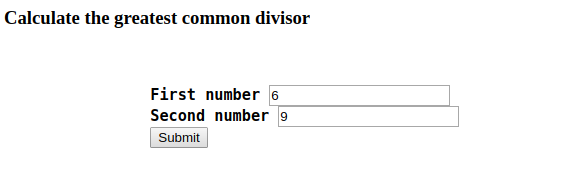
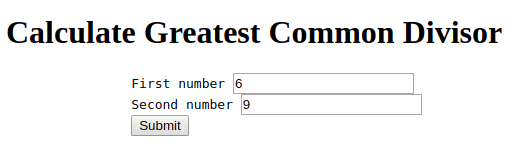
Fixed errors of new functionality: added GUI to calculate GCD (Greatest Common Divisor)

Changed region(s): [[0.0, 0.0613, 0.9808, 0.2761], [0.2452, 0.4294, 0.8276, 0.8589]]

diff --git a/src/main/kotlin/es/unizar/webeng/hello/HelloController.kt b/src/main/kotlin/es/unizar/webeng/hello/HelloController.kt
@@ -13,6 +13,8 @@ import org.springframework.data.redis.core.StringRedisTemplate
 import org.springframework.http.ResponseEntity
 import org.springframework.http.HttpStatus
 import org.springframework.util.MultiValueMap;
+import org.springframework.ui.Model;
+
 
 
 @Controller
@@ -82,23 +84,7 @@ class HelloController {
         return "welcome"
     }
 
-    /**
-     *
-     * This annotation is used to map the personalWelcome function to a GET Request on path: "/{name}"
-     * @PathVariable annotation is used to extract a variable from the url.
-     * A name is considered valid *only* if it only contains letters (upper and lower) and spaces.
-     * @return a String saying "Hello {name}" if name is valid and an error message otherwise
-     */
-    @GetMapping("/{name}")
-    fun personalWelcome(@ModelAttribute msg: Message, @PathVariable name: String): String {
-        if (name.matches(Regex("[A-Za-z ]+"))) {
-            msg.message = "Hola $name"
-            return "welcome"
-        } else {
-            msg.message = "Invalid request. No one can be named $name"
-            throw InvalidWelcomeMessageException(msg)
-        }
-    }
+    
 
     /**
      * 
@@ -118,6 +104,8 @@ class HelloController {
         }
         return "welcome"
     }
+
+    
 
     /**
      * Function example to check the post functionality
@@ -139,6 +127,36 @@ class HelloController {
         }
         // Result is stored in a
         return a
+    }
+
+    /**
+     * Function example to use 'gcd'  with a web GUI
+     */
+    @GetMapping("/gcdForm")
+    fun gcdForm(@ModelAttribute form: GcdResult): String {
+        return "form"
+    }
+
+    /**
+     * Calculate the greatest common divisor with the form values and show the result
+     * to the user in a new webpage
+     * 
+     * @param form It must have two keys: "a":value1, "b":value2
+     * @return a String in a webpage with the 'gcd' of 'a' & 'b'
+     */
+    @PostMapping("/gcdForm")
+    fun calculateGcd(@ModelAttribute form: GcdResult, model: Model) : String{
+
+        val firstNum = form.firstNum
+        val secondNum = form.secondNum
+        //Create a new Gcd object to use 'gcd' function
+        val result = gcd(Gcd(form.firstNum!!,form.secondNum!!))
+        
+        model.addAttribute("firstNum", firstNum)
+        model.addAttribute("secondNum", secondNum)
+        model.addAttribute("result", result)
+
+        return "result"
     }
 
     /**
@@ -249,5 +267,21 @@ class HelloController {
         return "gambling"
     }
 
-
+    /**
+     *
+     * This annotation is used to map the personalWelcome function to a GET Request on path: "/{name}"
+     * @PathVariable annotation is used to extract a variable from the url.
+     * A name is considered valid *only* if it only contains letters (upper and lower) and spaces.
+     * @return a String saying "Hello {name}" if name is valid and an error message otherwise
+     */
+    @GetMapping("/{name}")
+    fun personalWelcome(@ModelAttribute msg: Message, @PathVariable name: String): String {
+        if (name.matches(Regex("[A-Za-z ]+"))) {
+            msg.message = "Hola $name"
+            return "welcome"
+        } else {
+            msg.message = "Invalid request. No one can be named $name"
+            throw InvalidWelcomeMessageException(msg)
+        }
+    }
 }

diff --git a/src/main/webapp/WEB-INF/views/form.html b/src/main/webapp/WEB-INF/views/form.html
@@ -1,0 +1,13 @@
+<!DOCTYPE html>
+<html lang="en" xmlns:th="http://www.thymeleaf.org">
+    <body class="container">
+        <form action="gcdForm" method="post">
+            <h1>Calculate Greatest Common Divisor</h1>
+            <pre>
+                First number <input type="number" name="firstNum" />
+                Second number <input type="number" name="secondNum" />
+                <input type="submit" value="Submit" />
+            </pre>
+        </form>
+    </body>
+</html>

diff --git a/src/main/webapp/WEB-INF/views/result.html b/src/main/webapp/WEB-INF/views/result.html
@@ -1,0 +1,15 @@
+<!DOCTYPE html>
+<html lang="en" xmlns:th="http://www.thymeleaf.org">
+    <title>GCD result</title>
+    <body>
+        <h3>Greatest Common Divisor of 
+                <span th:text="${firstNum}"></span>
+            and 
+                <span th:text="${secondNum}"></span>
+            = 
+            <strong>
+                <span th:text="${result}"></span>
+            </strong> 
+        </h3>
+    </body>
+</html>

diff --git a/src/main/kotlin/es/unizar/webeng/hello/GcdResult.kt b/src/main/kotlin/es/unizar/webeng/hello/GcdResult.kt
@@ -1,0 +1,7 @@
+package es.unizar.webeng.hello
+
+data class GcdResult(
+    var firstNum: Int? = null, 
+    var secondNum: Int? = null, 
+    var result: Int? = null
+    ){}

diff --git a/description.md b/description.md
@@ -98,7 +98,7 @@ Now there is also a GUI to use gcd in a simple way, i.e:
 Go to /gcdForm (in this example the complete URL is http://localhost:8080/gcdForm) and fill the fields:
 ![Form for gcd](/images/gcdForm.png?raw=true "gcd form")
 
-and click the Submit button, the result will be shown in /calculateGcd:
+and click the Submit button, the result will be shown:
 ![Form result for gcd](/images/gcdResult.png?raw=true "gcd form result")
 
 ### References
